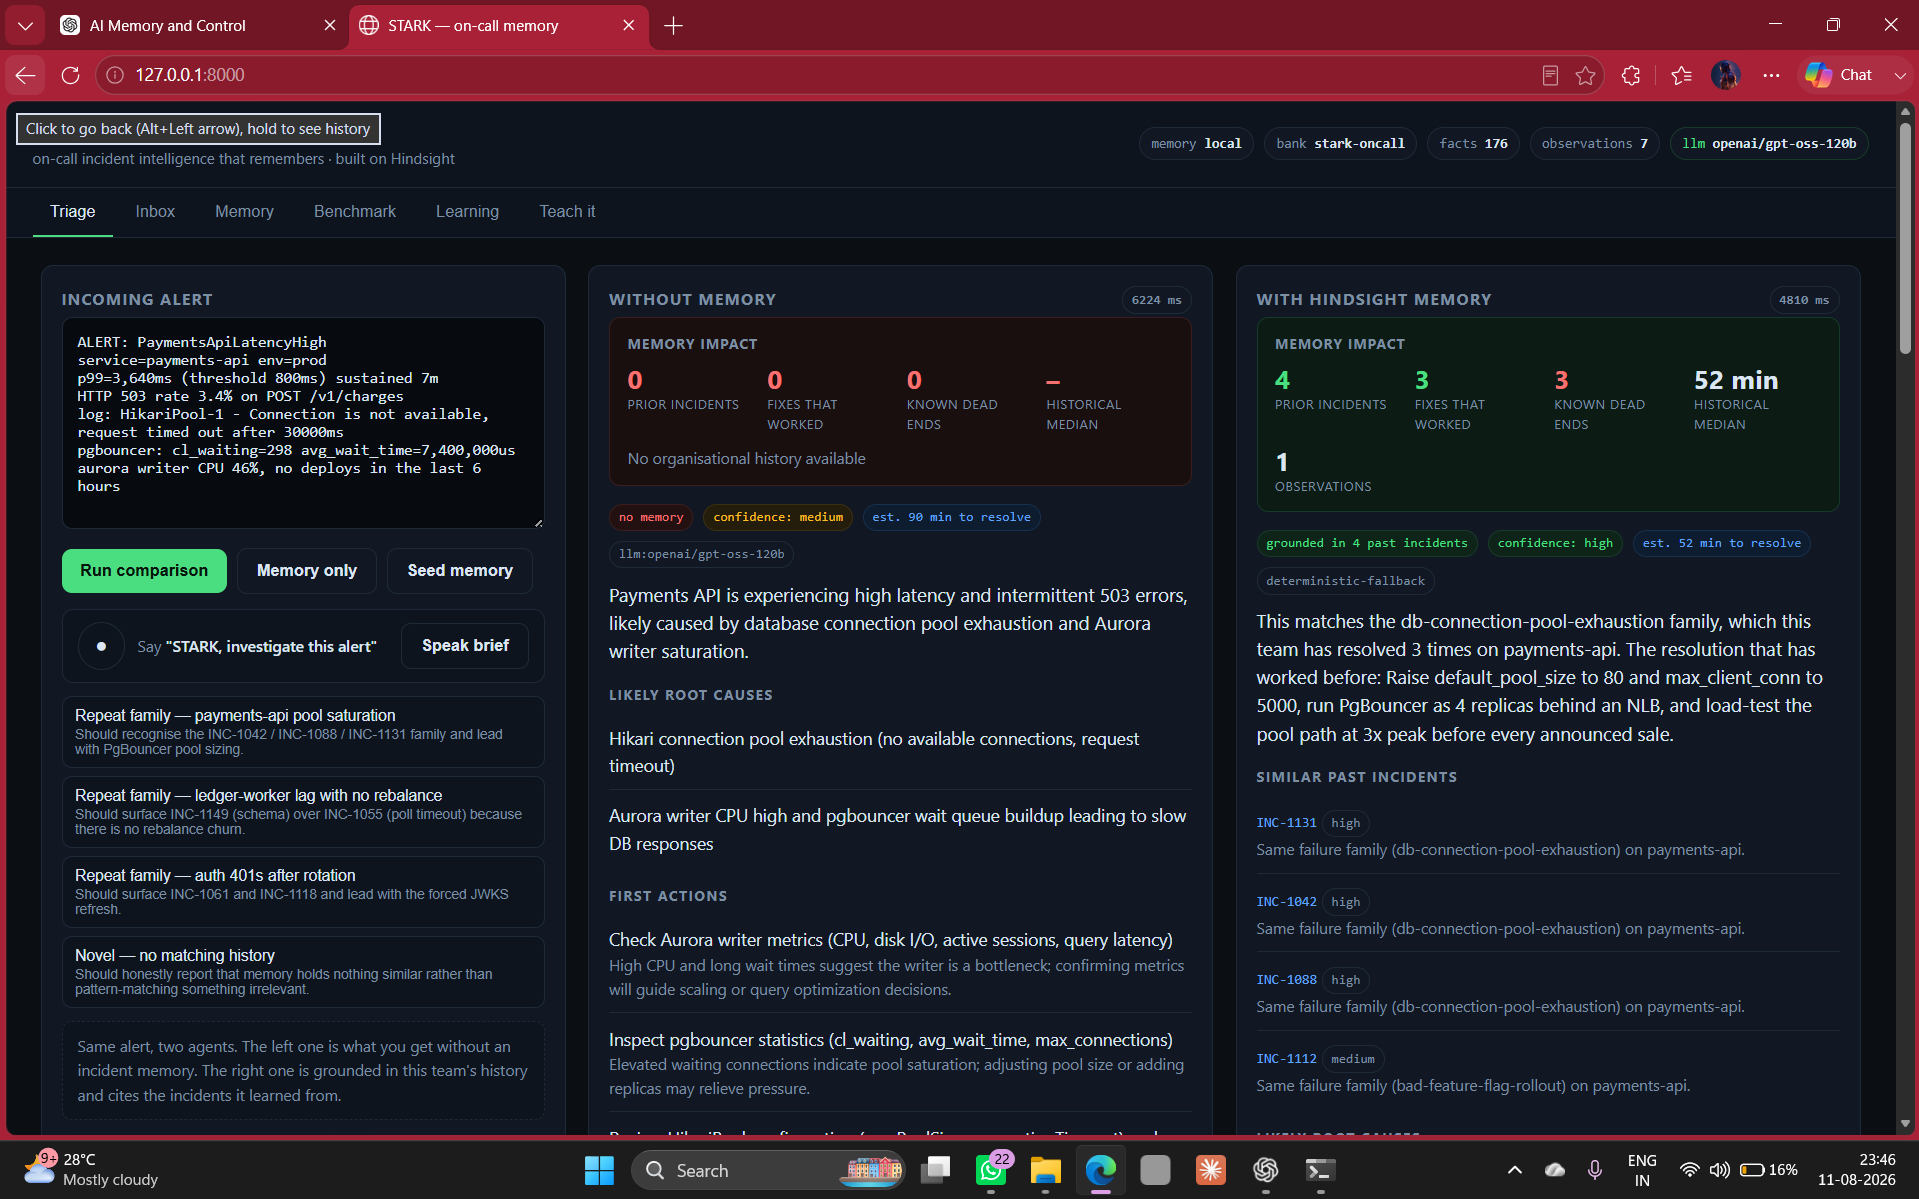
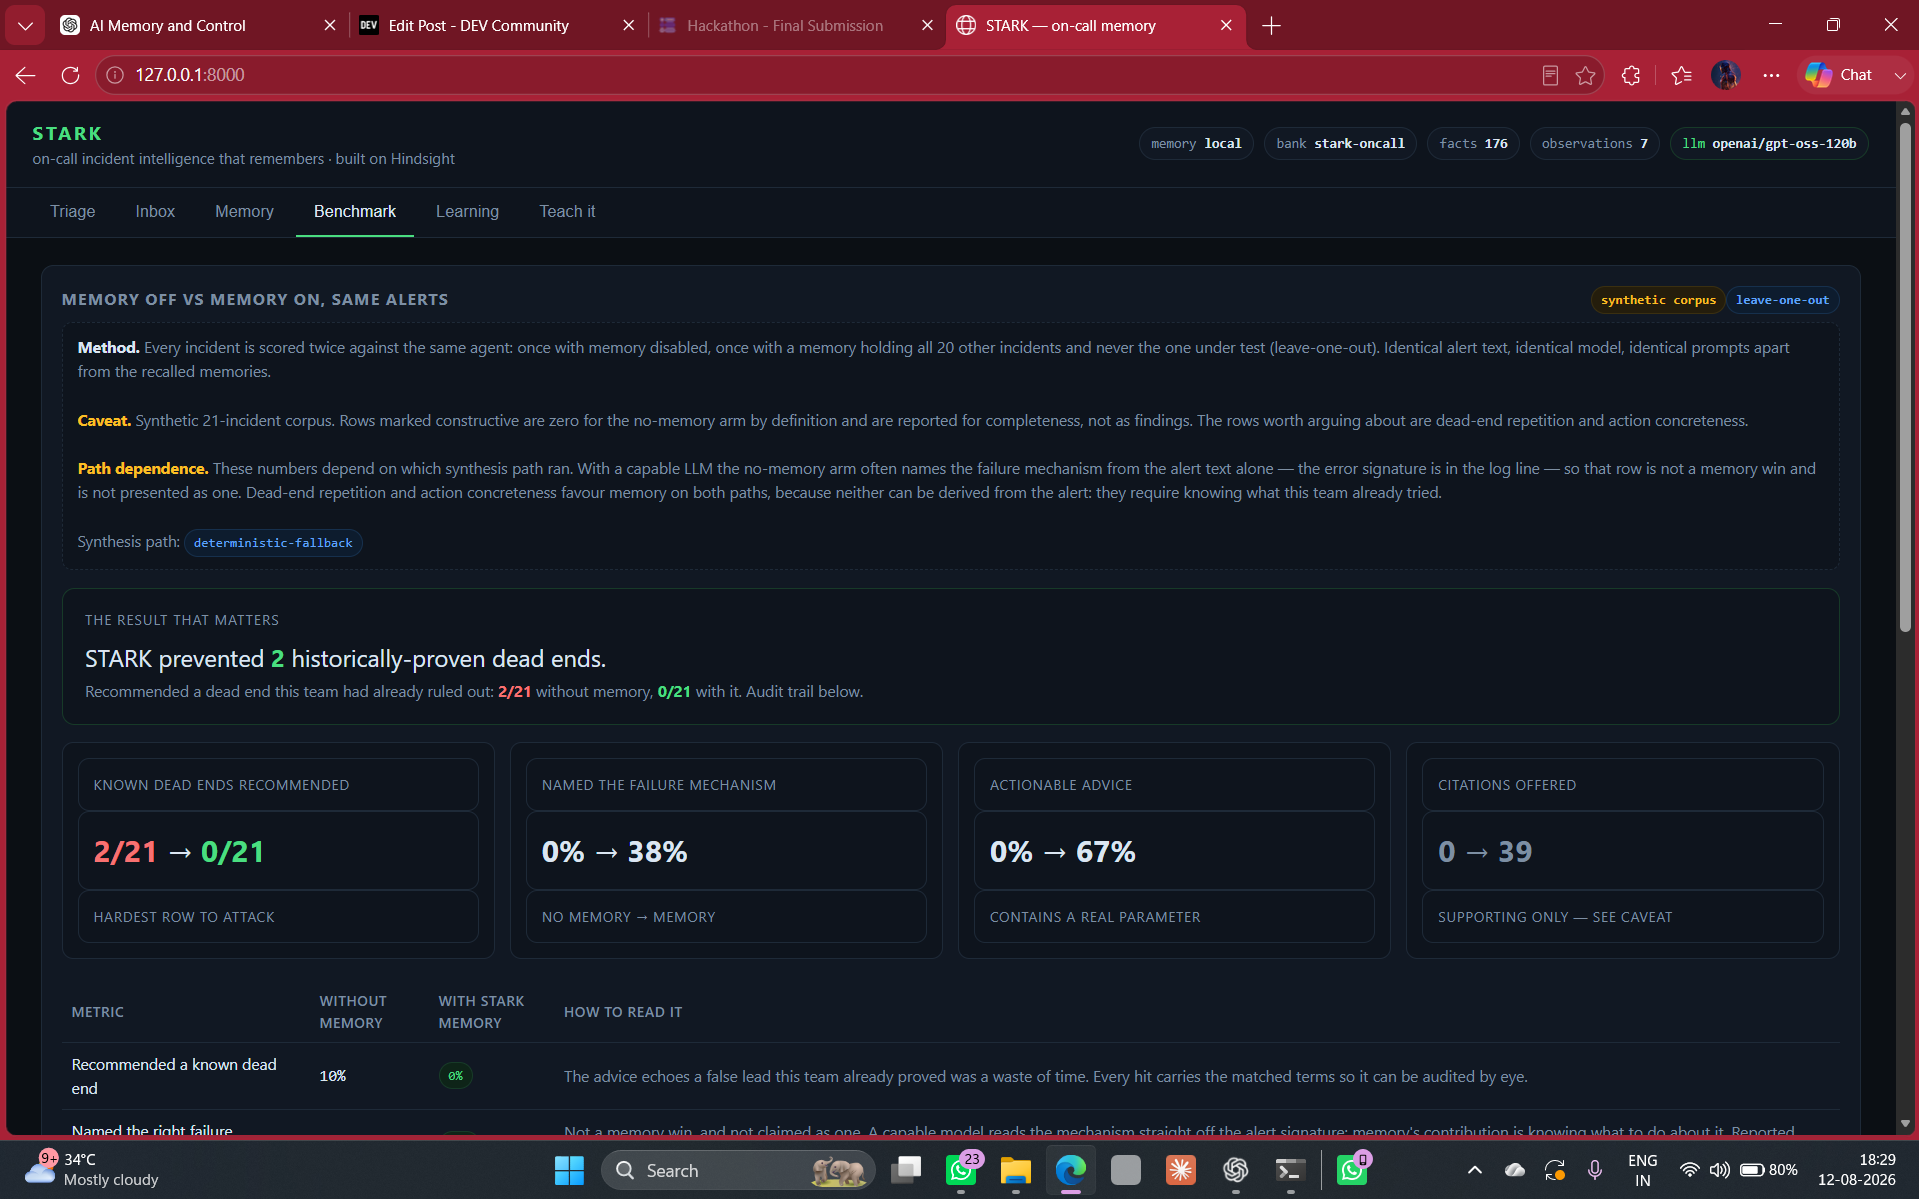
Add screenshots to article and update triage screenshot

diff --git a/article.md b/article.md
@@ -135,6 +135,12 @@ One bug is worth recording. Recommendation keys were hashed from the action text
 
 The result I'd defend: **without memory the agent recommended something this team had already proved was a waste of time on 2 of 21 incidents. With memory, 0 of 21.** Both hits were *"check recent deploys and roll back if one correlates in time"*, matched against INC-1042 and INC-1131, whose postmortems record the team almost rolling back an innocent deploy. Textbook-correct advice this specific team had already paid to learn was wrong. Advice containing a real parameter or config key went from 0% to 67%.
 
+Before memory is in the picture, an alert opens a triage that comes to the engineer cold:
+
+![The triage before memory — the alert opened with no recalled incidents in context](docs/screenshots/triage-before.png)
+
+*Triage before: a cold open, no recalled memories in context.*
+
 Side by side, that is what the triage turns into once memory is switched on:
 
 ![Triage with and without Hindsight memory — the grounded brief recalls the prior incident instead of reopening it cold](docs/screenshots/triage-memory-comparison.png)
